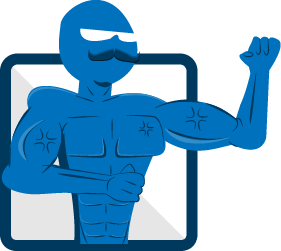
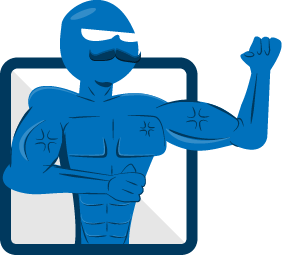
css

diff --git a/css/style.css b/css/style.css
@@ -180,7 +180,6 @@ a {
 
 .one {
 	margin-top: 22%;
-	margin-right: 2%
 }
 .two {
 		margin-top: 18.5%;
@@ -200,6 +199,7 @@ nav {
 	display:flex;
 	margin-left: 5%;
 	margin-right: 5%;
+	margin-top: 2%;
 }
 
 
@@ -237,4 +237,13 @@ nav {
   padding: 15px 105px;
   width: auto;
 	}
+}
+@media screen and (min-width: 1200px) {
+.level {
+margin-left: 30%;
+margin-right: 30%;
+}
+.three {
+	margin-left: 25%;
+}
 }
